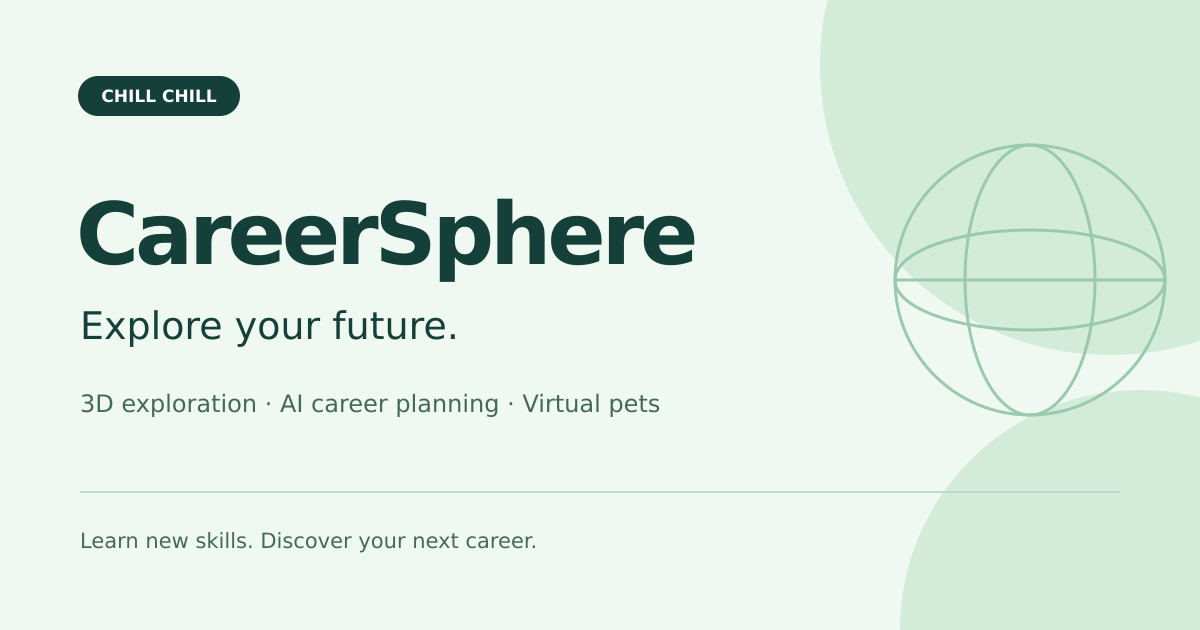
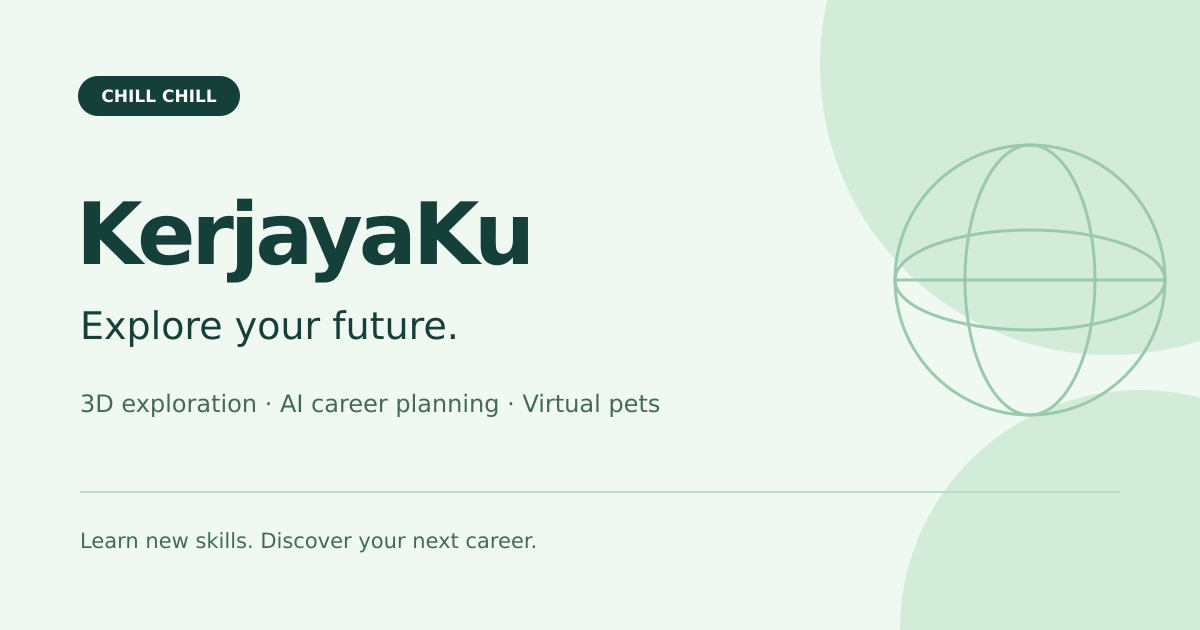
Update project branding and social sharing assets
Replit-Commit-Author: Agent

Changed region(s): [[0.0617, 0.3016, 0.5858, 0.4524]]

diff --git a/GamePlat/game/sources/index.html b/GamePlat/game/sources/index.html
@@ -3,30 +3,30 @@
 <head>
     <meta charset="UTF-8">
     <meta name="viewport" content="width=device-width, initial-scale=1.0">
-    <title>CareerSphere</title>
+    <title>KerjayaKu</title>
 
-    <meta name="description" content="Explore your future with CareerSphere: 3D world exploration, AI-assisted career planning and virtual pets.">
+    <meta name="description" content="Explore your future with KerjayaKu: 3D world exploration, AI-assisted career planning and virtual pets.">
 
-    <meta itemprop="name" content="CareerSphere">
-    <meta itemprop="description" content="Explore your future with CareerSphere: 3D world exploration, AI-assisted career planning and virtual pets.">
-    <meta itemprop="image" content="https://xmum-hackfinal.replit.app/social/careersphere-share.png">
+    <meta itemprop="name" content="KerjayaKu">
+    <meta itemprop="description" content="Explore your future with KerjayaKu: 3D world exploration, AI-assisted career planning and virtual pets.">
+    <meta itemprop="image" content="https://xmum-hackfinal.replit.app/social/kerjayaku-share.png">
 
     <meta name="twitter:card" content="summary_large_image">
-    <meta name="twitter:title" content="CareerSphere">
-    <meta name="twitter:description" content="Explore your future with CareerSphere: 3D world exploration, AI-assisted career planning and virtual pets.">
-    <meta name="twitter:image" content="https://xmum-hackfinal.replit.app/social/careersphere-share.png">
-    <meta name="twitter:image:alt" content="CareerSphere — Explore your future">
+    <meta name="twitter:title" content="KerjayaKu">
+    <meta name="twitter:description" content="Explore your future with KerjayaKu: 3D world exploration, AI-assisted career planning and virtual pets.">
+    <meta name="twitter:image" content="https://xmum-hackfinal.replit.app/social/kerjayaku-share.png">
+    <meta name="twitter:image:alt" content="KerjayaKu — Explore your future">
 
-    <meta property="og:site_name" content="CareerSphere">
+    <meta property="og:site_name" content="KerjayaKu">
     <meta property="og:type" content="website">
     <meta property="og:url" content="https://xmum-hackfinal.replit.app/">
-    <meta property="og:title" content="CareerSphere">
-    <meta property="og:description" content="Explore your future with CareerSphere: 3D world exploration, AI-assisted career planning and virtual pets.">
-    <meta property="og:image" content="https://xmum-hackfinal.replit.app/social/careersphere-share.png">
+    <meta property="og:title" content="KerjayaKu">
+    <meta property="og:description" content="Explore your future with KerjayaKu: 3D world exploration, AI-assisted career planning and virtual pets.">
+    <meta property="og:image" content="https://xmum-hackfinal.replit.app/social/kerjayaku-share.png">
     <meta property="og:image:type" content="image/png">
     <meta property="og:image:width" content="1200">
     <meta property="og:image:height" content="630">
-    <meta property="og:image:alt" content="CareerSphere — Explore your future">
+    <meta property="og:image:alt" content="KerjayaKu — Explore your future">
     <link rel="canonical" href="https://xmum-hackfinal.replit.app/">
 
     <link rel="preconnect" href="https://fonts.googleapis.com">
@@ -40,7 +40,7 @@
     <link rel="icon" type="image/svg+xml" href="/favicons/favicon.svg" loading="lazy" />
     <link rel="shortcut icon" href="/favicons/favicon.ico" />
     <link rel="apple-touch-icon" sizes="180x180" href="/favicons/apple-touch-icon.png" />
-    <meta name="apple-mobile-web-app-title" content="CareerSphere" />
+    <meta name="apple-mobile-web-app-title" content="KerjayaKu" />
     <link rel="manifest" href="/favicons/site.webmanifest" />
 
     <link rel="preload" href="/respawns/respawnsReferences-compressed.glb" as="fetch" crossorigin>
@@ -180,9 +180,9 @@
                         <div class="js-content content home-content">
                             <div class="content-inner">
                                 <p class="project-team" data-project-text="home.team">A project by Chill chill</p>
-                                <h1 class="title project-title js-main-focus" tabindex="-1">CareerSphere</h1>
+                                <h1 class="title project-title js-main-focus" tabindex="-1">KerjayaKu</h1>
                                 <p class="project-lead" data-project-text="home.tagline">Explore your future. Grow one skill at a time.</p>
-                                <p class="text" data-project-text="home.intro">CareerSphere combines 3D world exploration, AI-assisted career planning and virtual pets to help you prepare for your next career.</p>
+                                <p class="text" data-project-text="home.intro">KerjayaKu combines 3D world exploration, AI-assisted career planning and virtual pets to help you prepare for your next career.</p>
                                 <p class="text" data-project-text="home.plan">Describe your skills or upload a CV, choose a career or provide a target job posting, and generate a learning roadmap based on your skill gaps.</p>
                                 <p class="text" data-project-text="home.progress">Learn at your own pace and record your practice. Turn that effort into task progress, points and growth reflected in your career pet.</p>
                                 <p class="project-journey" data-project-text="home.journey">Know your skills → Choose a career → Plan your path → Keep growing</p>
@@ -517,7 +517,7 @@
                             <div class="content-inner">
                                 <p class="project-team" data-project-text="home.team">A project by Chill chill</p>
                                 <h1 class="title project-title js-main-focus" data-project-text="stack.title" tabindex="-1">Technical stack</h1>
-                                <p class="text" data-project-text="stack.intro">The technologies behind CareerSphere.</p>
+                                <p class="text" data-project-text="stack.intro">The technologies behind KerjayaKu.</p>
                                 <div class="project-stack">
                                     <section class="project-stack-card">
                                         <h2>JavaScript / HTML / Stylus / Vite</h2>

diff --git a/GamePlat/game/sources/Career/i18n.js b/GamePlat/game/sources/Career/i18n.js
@@ -109,14 +109,14 @@ const STRINGS = {
     'home.navigation': { zh: '项目介绍', en: 'Project introduction', ms: 'Pengenalan projek' },
     'home.team': { zh: '由 {team} 团队打造', en: 'A project by {team}', ms: 'Projek oleh {team}' },
     'home.tagline': { zh: '探索职业方向，让每一次学习成为成长。', en: 'Explore your future. Grow one skill at a time.', ms: 'Terokai masa depan anda. Berkembang satu kemahiran demi satu.' },
-    'home.intro': { zh: 'CareerSphere 将 3D 世界探索、AI 职业规划与宠物养成结合，帮助你为下一份职业做好准备。', en: 'CareerSphere combines 3D world exploration, AI-assisted career planning and virtual pets to help you prepare for your next career.', ms: 'CareerSphere menggabungkan penerokaan dunia 3D, perancangan kerjaya berbantu AI dan haiwan maya untuk membantu anda bersedia bagi kerjaya seterusnya.' },
+    'home.intro': { zh: 'KerjayaKu 将 3D 世界探索、AI 职业规划与宠物养成结合，帮助你为下一份职业做好准备。', en: 'KerjayaKu combines 3D world exploration, AI-assisted career planning and virtual pets to help you prepare for your next career.', ms: 'KerjayaKu menggabungkan penerokaan dunia 3D, perancangan kerjaya berbantu AI dan haiwan maya untuk membantu anda bersedia bagi kerjaya seterusnya.' },
     'home.plan': { zh: '描述已有技能或上传简历，选择目标职业或提供招聘要求，再根据技能差距生成个人学习路线。', en: 'Describe your skills or upload a CV, choose a career or provide a target job posting, and generate a learning roadmap based on your skill gaps.', ms: 'Terangkan kemahiran anda atau muat naik CV, pilih kerjaya atau berikan iklan jawatan sasaran, kemudian jana peta laluan pembelajaran berdasarkan jurang kemahiran anda.' },
     'home.progress': { zh: '按照自己的节奏学习并记录练习，让投入转化为任务进度、积分，以及职业宠物所展现的成长。', en: 'Learn at your own pace and record your practice. Turn that effort into task progress, points and growth reflected in your career pet.', ms: 'Belajar mengikut rentak sendiri dan catat latihan anda. Usaha itu diterjemahkan kepada kemajuan tugasan, mata dan perkembangan yang dipaparkan melalui haiwan kerjaya anda.' },
     'home.journey': { zh: '了解技能 → 选择职业 → 制定路线 → 持续成长', en: 'Know your skills → Choose a career → Plan your path → Keep growing', ms: 'Kenali kemahiran → Pilih kerjaya → Rancang laluan → Terus berkembang' },
 
     // Project technical stack
     'stack.title': { zh: '技术栈', en: 'Technical stack', ms: 'Teknologi projek' },
-    'stack.intro': { zh: 'CareerSphere 的技术组成：从 3D 探索与职业规划，到聊天助手和岗位市场数据。', en: 'The technologies behind CareerSphere: from 3D exploration and career planning to the chat companion and job-market data.', ms: 'Teknologi di sebalik CareerSphere: daripada penerokaan 3D dan perancangan kerjaya kepada pembantu sembang dan data pasaran kerja.' },
+    'stack.intro': { zh: 'KerjayaKu 的技术组成：从 3D 探索与职业规划，到聊天助手和岗位市场数据。', en: 'The technologies behind KerjayaKu: from 3D exploration and career planning to the chat companion and job-market data.', ms: 'Teknologi di sebalik KerjayaKu: daripada penerokaan 3D dan perancangan kerjaya kepada pembantu sembang dan data pasaran kerja.' },
     'stack.frontend': { zh: '原生 JavaScript 构建交互界面，HTML 与 Stylus 组织页面和样式，Vite 负责开发与打包。', en: 'Vanilla JavaScript powers the interface, HTML and Stylus define its layout and styles, and Vite handles development and builds.', ms: 'JavaScript membina antara muka, HTML dan Stylus menentukan susun atur serta gaya, dan Vite mengurus pembangunan serta binaan.' },
     'stack.world': { zh: 'Three.js 渲染 3D 世界，支持 WebGPU / WebGL；Rapier 处理角色移动和碰撞，GSAP 与 Howler 提供动画与音效。', en: 'Three.js renders the world with WebGPU / WebGL. Rapier handles character movement and collisions; GSAP and Howler support animation and audio.', ms: 'Three.js memaparkan dunia melalui WebGPU / WebGL. Rapier mengurus pergerakan dan perlanggaran; GSAP dan Howler menyokong animasi serta audio.' },
     'stack.backend': { zh: 'Node.js 提供游戏 API，处理技能档案、目标职业、学习路线与记录，并通过规则计算进度和积分。', en: 'The Node.js game API manages skill profiles, career targets, roadmaps and learning logs. Application rules calculate progress and points.', ms: 'API permainan Node.js mengurus profil kemahiran, sasaran kerjaya, peta laluan dan log pembelajaran. Peraturan aplikasi mengira kemajuan serta mata.' },

diff --git a/.agents/memory/project-branding.md b/.agents/memory/project-branding.md
@@ -1,10 +1,10 @@
 ---
 name: Public project branding
-description: Link previews should identify CareerSphere rather than its original portfolio template.
+description: The project is called KerjayaKu; do not use CareerSphere or the original portfolio brand publicly.
 ---
 
-Public link previews should show CareerSphere, not Bruno Simon or his portfolio artwork.
+The user clarified: “我的项目叫kerjayaku”. Use KerjayaKu as the public project name, not CareerSphere. Public link previews must not identify the app as Bruno Simon or use his portfolio artwork.
 
-**Why:** the user explicitly rejected the Bruno Simon preview when sharing the game's link.
+**Why:** the user rejected the Bruno Simon link preview and corrected the assistant's mistaken use of CareerSphere.
 
-**How to apply:** use CareerSphere branding for public titles, descriptions and share artwork. This request concerns product branding, not removal of the original project's license or source attribution.
+**How to apply:** use KerjayaKu for public titles, visible product copy, descriptions and share artwork. Preserve internal integration identifiers and environment-variable names so existing connections keep working. Keep the original project's license and source attribution.

diff --git a/.agents/memory/MEMORY.md b/.agents/memory/MEMORY.md
@@ -1,4 +1,4 @@
 - [Dependency audit ranges](dependency-audit-ranges.md) — compound Python version ranges can produce stale vulnerable-version findings; compare with installed metadata.
 - [Browser graphics verification](browser-graphics-verification.md) — headless GPU crashes can block gameplay verification even when the server and build work.
 - [KerjayaKu deployment target](kerjayaku-deployment-target.md) — use this final project for the bot integration; the old xmumHack project is retired.
-- [Public project branding](project-branding.md) — share previews must identify CareerSphere, not the original Bruno Simon portfolio.
+- [Public project branding](project-branding.md) — the project is KerjayaKu, not CareerSphere; do not use Bruno Simon branding in share previews.
